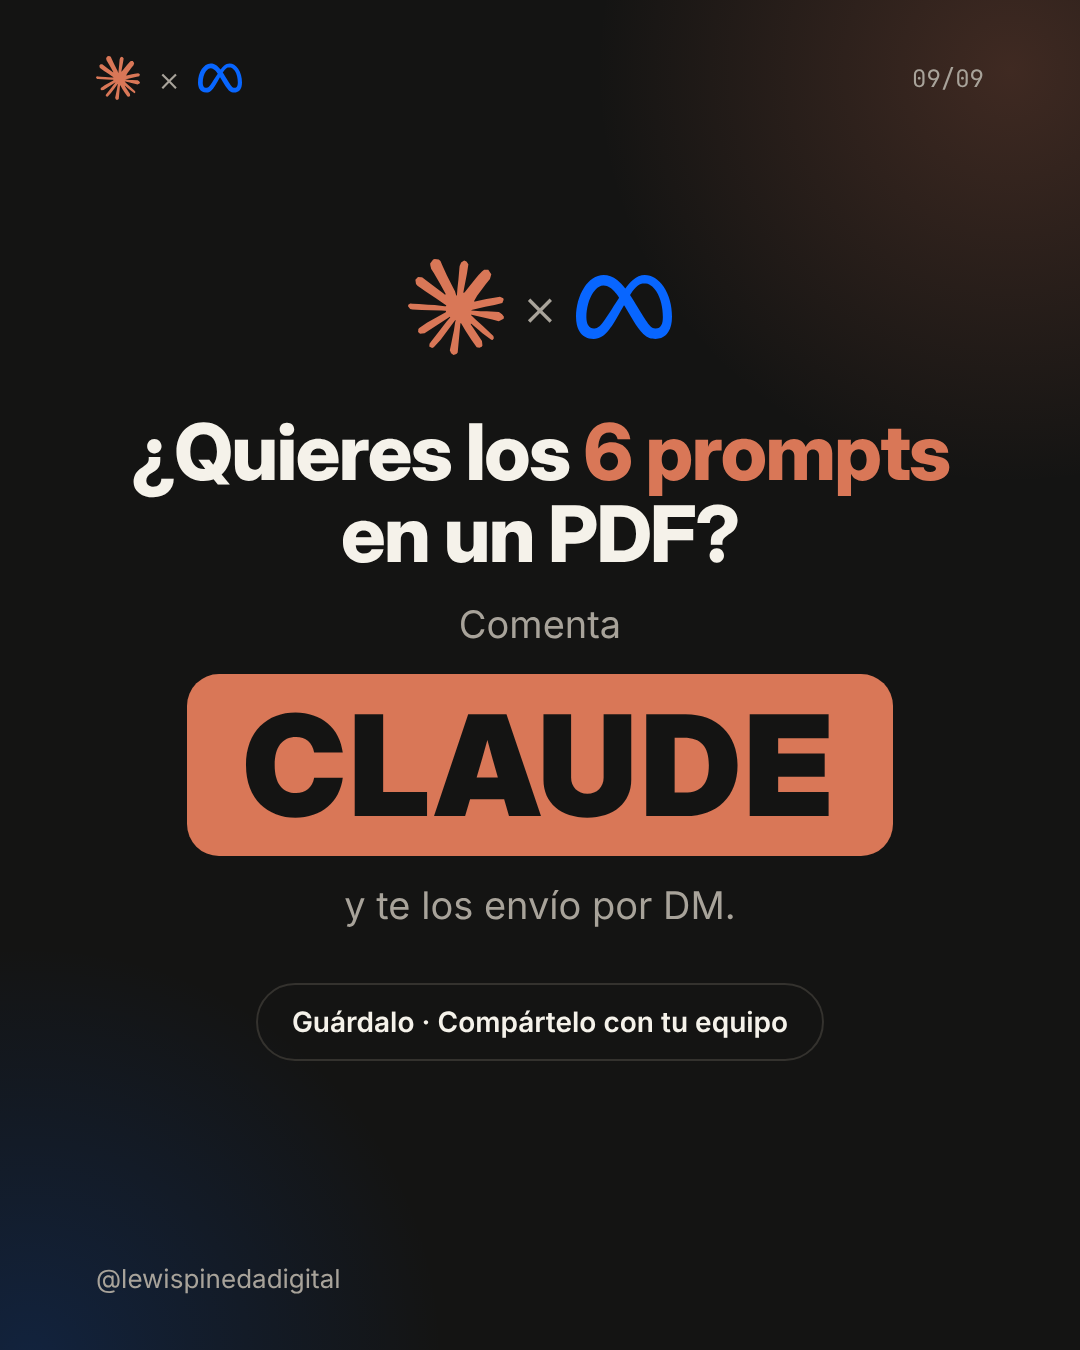
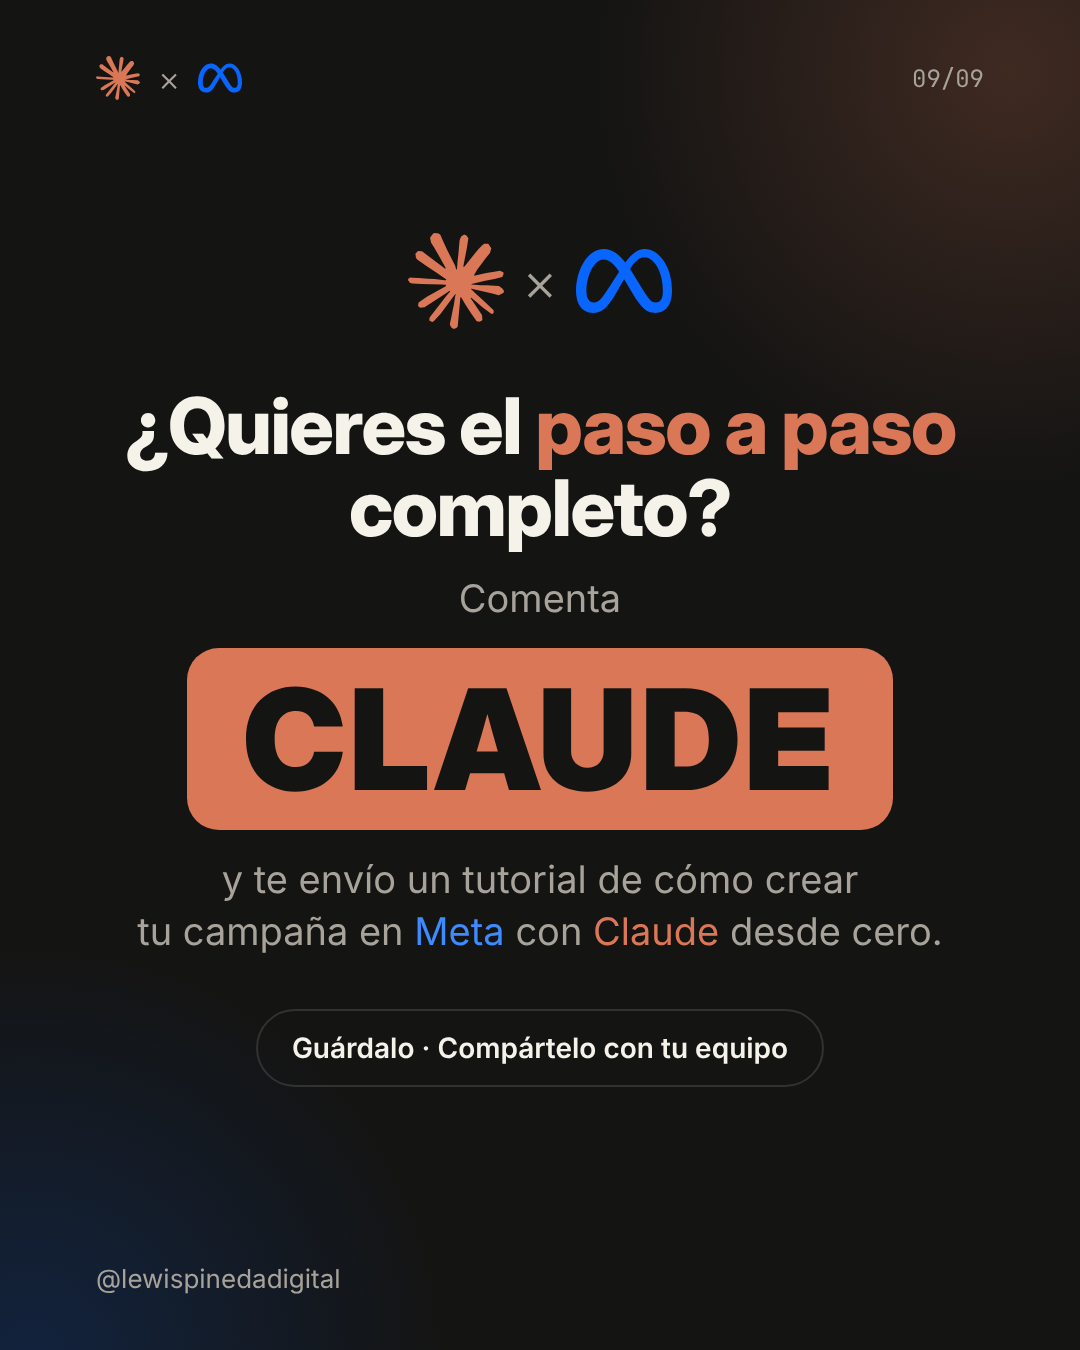
feat(carruseles): CTA ofrece tutorial de campaña en Meta con Claude
Claude-Session: https://claude.ai/code/session_01FeuUNKqE8bB9EWTaCuhyCY

diff --git a/carruseles/claude-meta-ads/carrusel.html b/carruseles/claude-meta-ads/carrusel.html
@@ -131,10 +131,10 @@ h2{font-family:'Inter Display';font-weight:800;font-size:78px;line-height:1.05;l
   <div class="top"><div class="logos"><svg width="44" height="44" viewBox="0 0 24 24"><path fill="#D97757" d="m4.7144 15.9555 4.7174-2.6471.079-.2307-.079-.1275h-.2307l-.7893-.0486-2.6956-.0729-2.3375-.0971-2.2646-.1214-.5707-.1215-.5343-.7042.0546-.3522.4797-.3218.686.0608 1.5179.1032 2.2767.1578 1.6514.0972 2.4468.255h.3886l.0546-.1579-.1336-.0971-.1032-.0972L6.973 9.8356l-2.55-1.6879-1.3356-.9714-.7225-.4918-.3643-.4614-.1578-1.0078.6557-.7225.8803.0607.2246.0607.8925.686 1.9064 1.4754 2.4893 1.8336.3643.3035.1457-.1032.0182-.0728-.164-.2733-1.3539-2.4467-1.445-2.4893-.6435-1.032-.17-.6194c-.0607-.255-.1032-.4674-.1032-.7285L6.287.1335 6.6997 0l.9957.1336.419.3642.6192 1.4147 1.0018 2.2282 1.5543 3.0296.4553.8985.2429.8318.091.255h.1579v-.1457l.1275-1.706.2368-2.0947.2307-2.6957.0789-.7589.3764-.9107.7468-.4918.5828.2793.4797.686-.0668.4433-.2853 1.8517-.5586 2.9021-.3643 1.9429h.2125l.2429-.2429.9835-1.3053 1.6514-2.0643.7286-.8196.85-.9046.5464-.4311h1.0321l.759 1.1293-.34 1.1657-1.0625 1.3478-.8804 1.1414-1.2628 1.7-.7893 1.36.0729.1093.1882-.0183 2.8535-.607 1.5421-.2794 1.8396-.3157.8318.3886.091.3946-.3278.8075-1.967.4857-2.3072.4614-3.4364.8136-.0425.0304.0486.0607 1.5482.1457.6618.0364h1.621l3.0175.2247.7892.522.4736.6376-.079.4857-1.2142.6193-1.6393-.3886-3.825-.9107-1.3113-.3279h-.1822v.1093l1.0929 1.0686 2.0035 1.8092 2.5075 2.3314.1275.5768-.3218.4554-.34-.0486-2.2039-1.6575-.85-.7468-1.9246-1.621h-.1275v.17l.4432.6496 2.3436 3.5214.1214 1.0807-.17.3521-.6071.2125-.6679-.1214-1.3721-1.9246L14.38 17.959l-1.1414-1.9428-.1397.079-.674 7.2552-.3156.3703-.7286.2793-.6071-.4614-.3218-.7468.3218-1.4753.3886-1.9246.3157-1.53.2853-1.9004.17-.6314-.0121-.0425-.1397.0182-1.4328 1.9672-2.1796 2.9446-1.7243 1.8456-.4128.164-.7164-.3704.0667-.6618.4008-.5889 2.386-3.0357 1.4389-1.882.929-1.0868-.0062-.1579h-.0546l-6.3385 4.1164-1.1293.1457-.4857-.4554.0608-.7467.2307-.2429 1.9064-1.3114Z"/></svg><span class="x">×</span><svg width="44" height="44" viewBox="0 0 24 24"><path fill="#0866FF" d="M6.915 4.03c-1.968 0-3.683 1.28-4.871 3.113C.704 9.208 0 11.883 0 14.449c0 .706.07 1.369.21 1.973a6.624 6.624 0 0 0 .265.86 5.297 5.297 0 0 0 .371.761c.696 1.159 1.818 1.927 3.593 1.927 1.497 0 2.633-.671 3.965-2.444.76-1.012 1.144-1.626 2.663-4.32l.756-1.339.186-.325c.061.1.121.196.183.3l2.152 3.595c.724 1.21 1.665 2.556 2.47 3.314 1.046.987 1.992 1.22 3.06 1.22 1.075 0 1.876-.355 2.455-.843a3.743 3.743 0 0 0 .81-.973c.542-.939.861-2.127.861-3.745 0-2.72-.681-5.357-2.084-7.45-1.282-1.912-2.957-2.93-4.716-2.93-1.047 0-2.088.467-3.053 1.308-.652.57-1.257 1.29-1.82 2.05-.69-.875-1.335-1.547-1.958-2.056-1.182-.966-2.315-1.303-3.454-1.303zm10.16 2.053c1.147 0 2.188.758 2.992 1.999 1.132 1.748 1.647 4.195 1.647 6.4 0 1.548-.368 2.9-1.839 2.9-.58 0-1.027-.23-1.664-1.004-.496-.601-1.343-1.878-2.832-4.358l-.617-1.028a44.908 44.908 0 0 0-1.255-1.98c.07-.109.141-.224.211-.327 1.12-1.667 2.118-2.602 3.358-2.602zm-10.201.553c1.265 0 2.058.791 2.675 1.446.307.327.737.871 1.234 1.579l-1.02 1.566c-.757 1.163-1.882 3.017-2.837 4.338-1.191 1.649-1.81 1.817-2.486 1.817-.524 0-1.038-.237-1.383-.794-.263-.426-.464-1.13-.464-2.046 0-2.221.63-4.535 1.66-6.088.454-.687.964-1.226 1.533-1.533a2.264 2.264 0 0 1 1.088-.285z"/></svg></div><span class="count">09/09</span></div>
   <div class="cta">
      <div class="logos"><svg width="96" height="96" viewBox="0 0 24 24"><path fill="#D97757" d="m4.7144 15.9555 4.7174-2.6471.079-.2307-.079-.1275h-.2307l-.7893-.0486-2.6956-.0729-2.3375-.0971-2.2646-.1214-.5707-.1215-.5343-.7042.0546-.3522.4797-.3218.686.0608 1.5179.1032 2.2767.1578 1.6514.0972 2.4468.255h.3886l.0546-.1579-.1336-.0971-.1032-.0972L6.973 9.8356l-2.55-1.6879-1.3356-.9714-.7225-.4918-.3643-.4614-.1578-1.0078.6557-.7225.8803.0607.2246.0607.8925.686 1.9064 1.4754 2.4893 1.8336.3643.3035.1457-.1032.0182-.0728-.164-.2733-1.3539-2.4467-1.445-2.4893-.6435-1.032-.17-.6194c-.0607-.255-.1032-.4674-.1032-.7285L6.287.1335 6.6997 0l.9957.1336.419.3642.6192 1.4147 1.0018 2.2282 1.5543 3.0296.4553.8985.2429.8318.091.255h.1579v-.1457l.1275-1.706.2368-2.0947.2307-2.6957.0789-.7589.3764-.9107.7468-.4918.5828.2793.4797.686-.0668.4433-.2853 1.8517-.5586 2.9021-.3643 1.9429h.2125l.2429-.2429.9835-1.3053 1.6514-2.0643.7286-.8196.85-.9046.5464-.4311h1.0321l.759 1.1293-.34 1.1657-1.0625 1.3478-.8804 1.1414-1.2628 1.7-.7893 1.36.0729.1093.1882-.0183 2.8535-.607 1.5421-.2794 1.8396-.3157.8318.3886.091.3946-.3278.8075-1.967.4857-2.3072.4614-3.4364.8136-.0425.0304.0486.0607 1.5482.1457.6618.0364h1.621l3.0175.2247.7892.522.4736.6376-.079.4857-1.2142.6193-1.6393-.3886-3.825-.9107-1.3113-.3279h-.1822v.1093l1.0929 1.0686 2.0035 1.8092 2.5075 2.3314.1275.5768-.3218.4554-.34-.0486-2.2039-1.6575-.85-.7468-1.9246-1.621h-.1275v.17l.4432.6496 2.3436 3.5214.1214 1.0807-.17.3521-.6071.2125-.6679-.1214-1.3721-1.9246L14.38 17.959l-1.1414-1.9428-.1397.079-.674 7.2552-.3156.3703-.7286.2793-.6071-.4614-.3218-.7468.3218-1.4753.3886-1.9246.3157-1.53.2853-1.9004.17-.6314-.0121-.0425-.1397.0182-1.4328 1.9672-2.1796 2.9446-1.7243 1.8456-.4128.164-.7164-.3704.0667-.6618.4008-.5889 2.386-3.0357 1.4389-1.882.929-1.0868-.0062-.1579h-.0546l-6.3385 4.1164-1.1293.1457-.4857-.4554.0608-.7467.2307-.2429 1.9064-1.3114Z"/></svg><span class="x">×</span><svg width="96" height="96" viewBox="0 0 24 24"><path fill="#0866FF" d="M6.915 4.03c-1.968 0-3.683 1.28-4.871 3.113C.704 9.208 0 11.883 0 14.449c0 .706.07 1.369.21 1.973a6.624 6.624 0 0 0 .265.86 5.297 5.297 0 0 0 .371.761c.696 1.159 1.818 1.927 3.593 1.927 1.497 0 2.633-.671 3.965-2.444.76-1.012 1.144-1.626 2.663-4.32l.756-1.339.186-.325c.061.1.121.196.183.3l2.152 3.595c.724 1.21 1.665 2.556 2.47 3.314 1.046.987 1.992 1.22 3.06 1.22 1.075 0 1.876-.355 2.455-.843a3.743 3.743 0 0 0 .81-.973c.542-.939.861-2.127.861-3.745 0-2.72-.681-5.357-2.084-7.45-1.282-1.912-2.957-2.93-4.716-2.93-1.047 0-2.088.467-3.053 1.308-.652.57-1.257 1.29-1.82 2.05-.69-.875-1.335-1.547-1.958-2.056-1.182-.966-2.315-1.303-3.454-1.303zm10.16 2.053c1.147 0 2.188.758 2.992 1.999 1.132 1.748 1.647 4.195 1.647 6.4 0 1.548-.368 2.9-1.839 2.9-.58 0-1.027-.23-1.664-1.004-.496-.601-1.343-1.878-2.832-4.358l-.617-1.028a44.908 44.908 0 0 0-1.255-1.98c.07-.109.141-.224.211-.327 1.12-1.667 2.118-2.602 3.358-2.602zm-10.201.553c1.265 0 2.058.791 2.675 1.446.307.327.737.871 1.234 1.579l-1.02 1.566c-.757 1.163-1.882 3.017-2.837 4.338-1.191 1.649-1.81 1.817-2.486 1.817-.524 0-1.038-.237-1.383-.794-.263-.426-.464-1.13-.464-2.046 0-2.221.63-4.535 1.66-6.088.454-.687.964-1.226 1.533-1.533a2.264 2.264 0 0 1 1.088-.285z"/></svg></div>
-     <h2>¿Quieres los <span class="c">6 prompts</span> en un PDF?</h2>
+     <h2>¿Quieres el <span class="c">paso a paso</span> completo?</h2>
      <p class="lead">Comenta</p>
      <div class="keyword">CLAUDE</div>
-     <p class="lead">y te los envío por DM.</p>
+     <p class="lead">y te envío un tutorial de cómo crear<br>tu campaña en <span class="o">Meta</span> con <span class="c">Claude</span> desde cero.</p>
      <div class="pill">Guárdalo · Compártelo con tu equipo</div>
    </div>
   <div class="bottom"><span>@lewispinedadigital</span></div>
